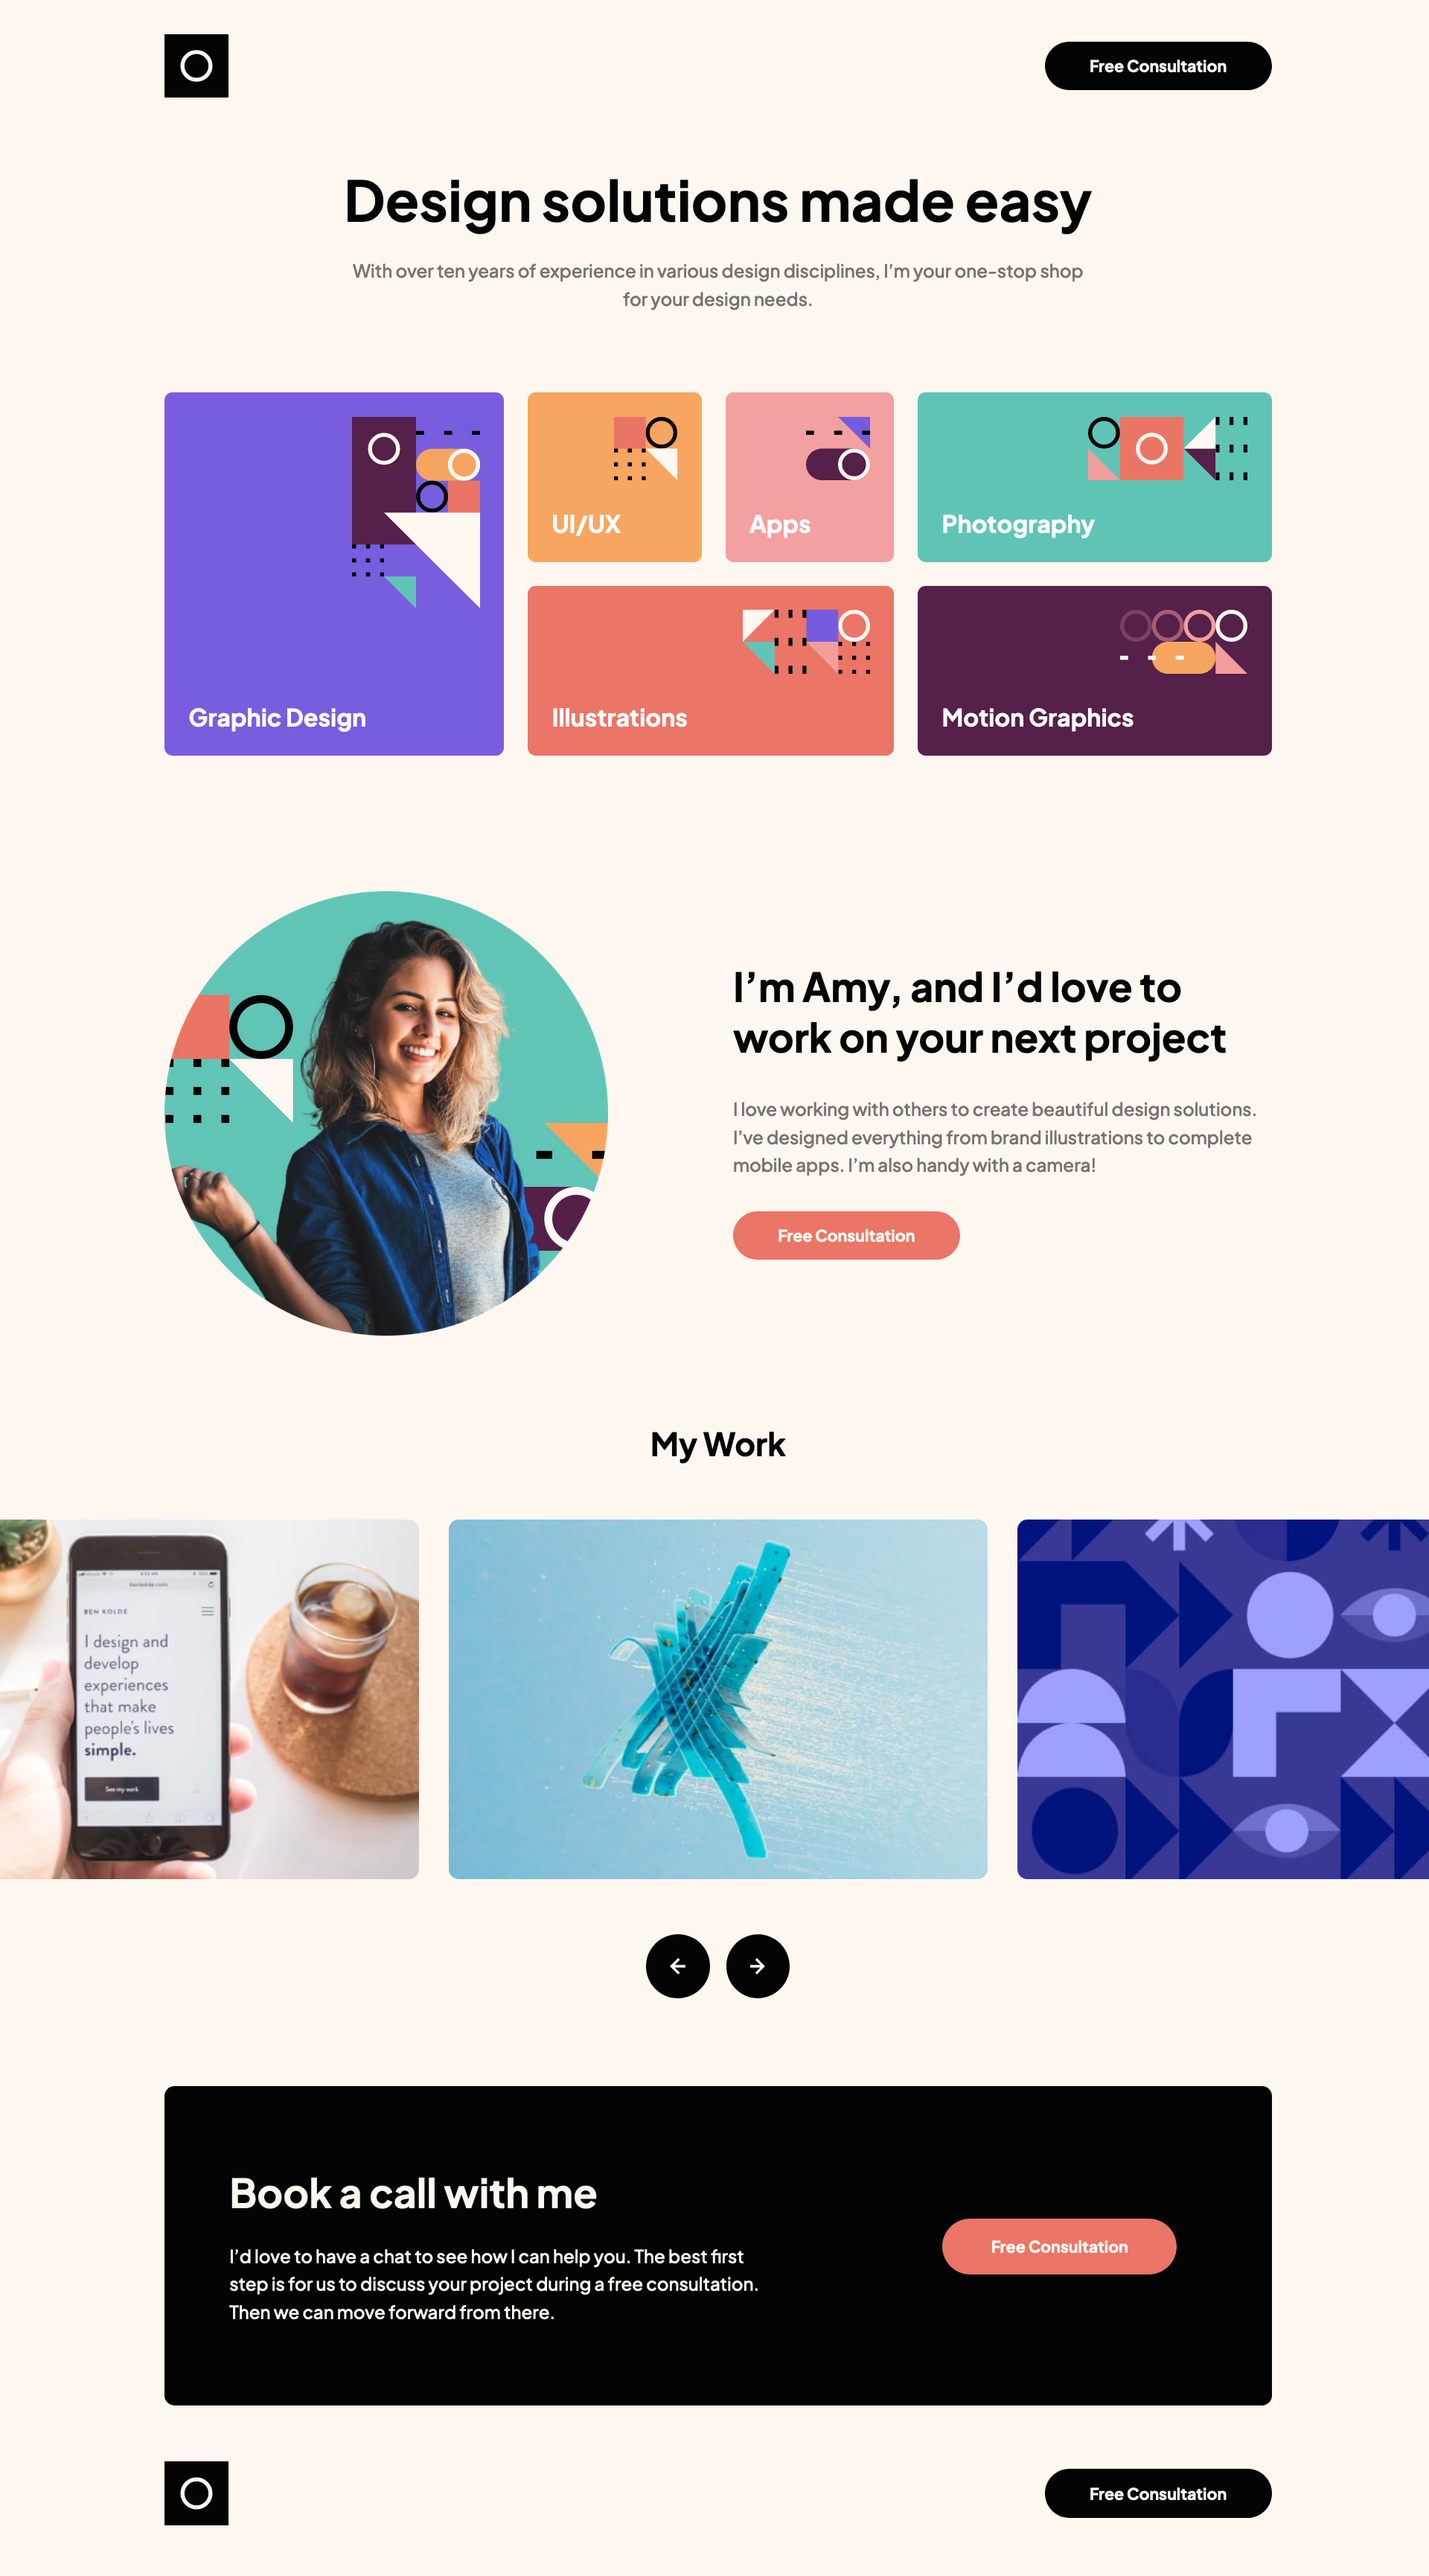
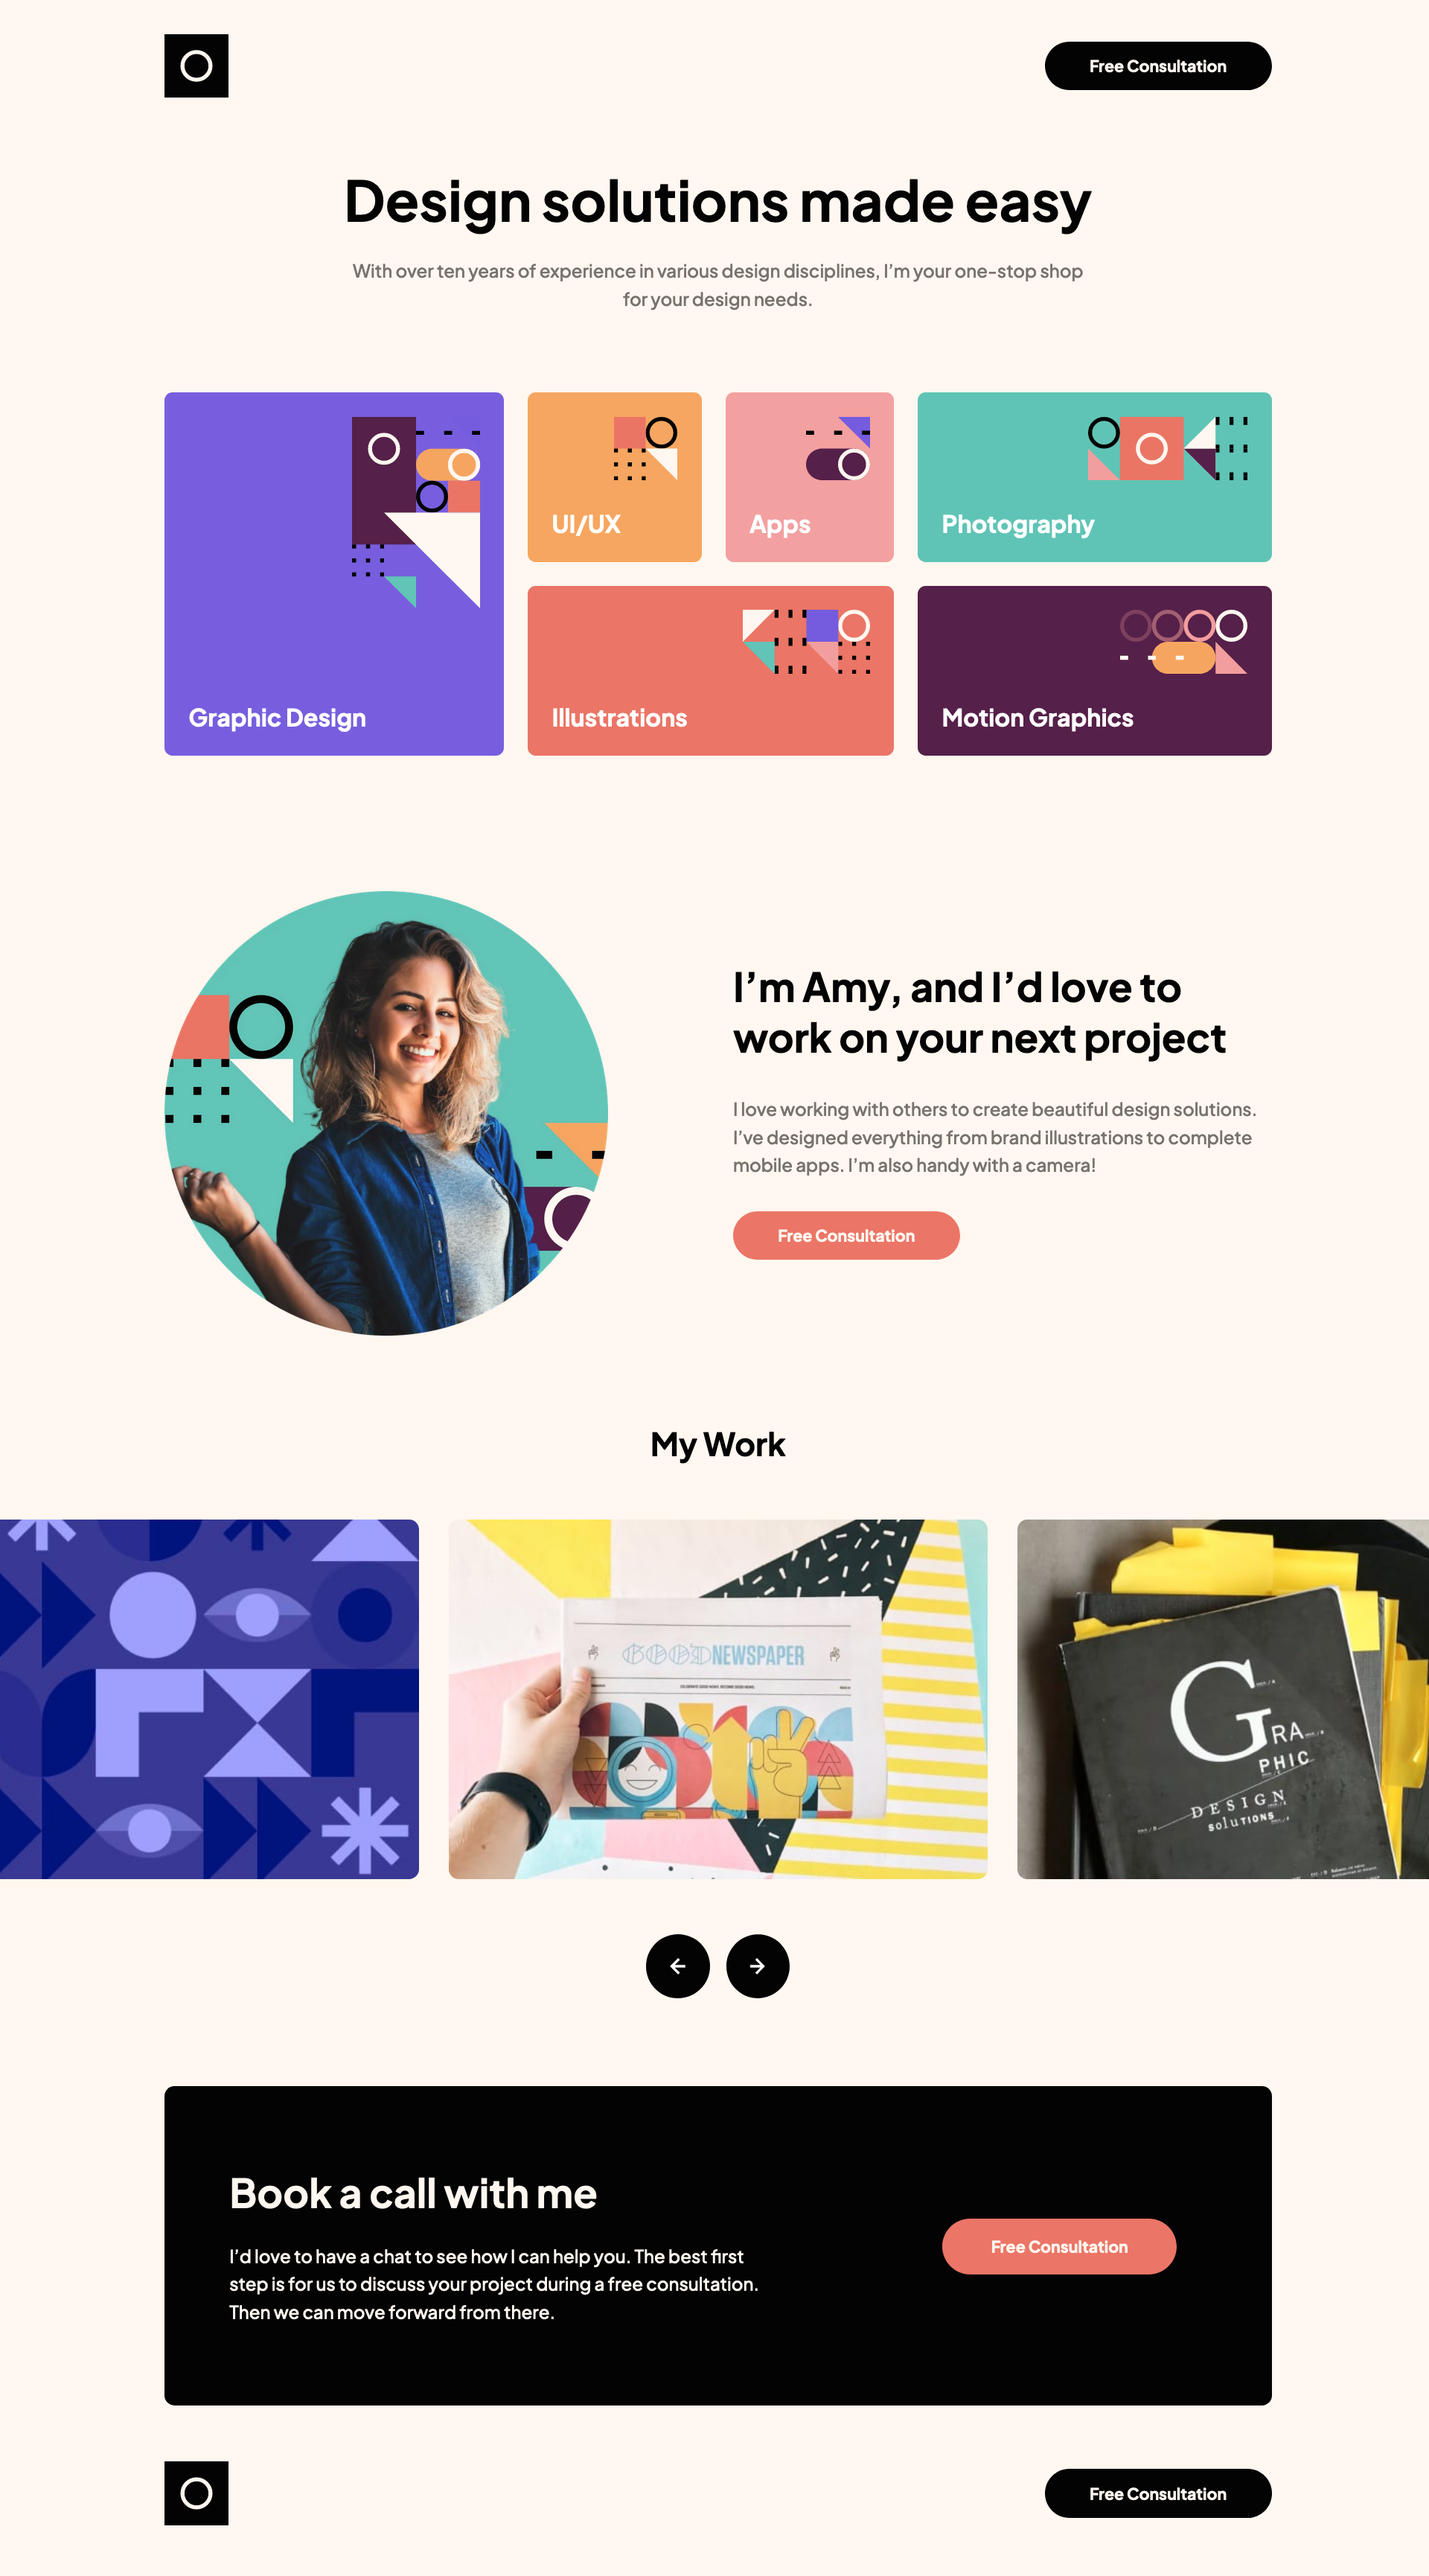
changed <p> to <h2> portfolio section

Changed region(s): [[0.0, 0.5618, 1.0, 0.7491]]

diff --git a/index.html b/index.html
@@ -31,7 +31,7 @@
                width="128"
                height="192"
             >
-            <p class="portfolio__desc">Graphic Design</p>
+            <h2 class="portfolio__desc">Graphic Design</h2>
          </div>
          <div class="portfolio__uiux portfolio__wrapper flex">
             <img
@@ -41,7 +41,7 @@
                width="64"
                height="64"
             >
-            <p class="portfolio__desc">UI/UX</p>
+            <h2 class="portfolio__desc">UI/UX</h2>
          </div>
          <div class="portfolio__apps portfolio__wrapper flex">
             <img
@@ -51,7 +51,7 @@
                width="64"
                height="64"
             >
-            <p class="portfolio__desc">Apps</p>
+            <h2 class="portfolio__desc">Apps</h2>
          </div>
          <div class="portfolio__photo portfolio__wrapper flex">
             <img
@@ -61,7 +61,7 @@
                width="160"
                height="64"
             >
-            <p class="portfolio__desc">Photography</p>
+            <h2 class="portfolio__desc">Photography</h2>
          </div>
          <div class="portfolio__illust portfolio__wrapper flex">
             <img
@@ -71,7 +71,7 @@
                width="128"
                height="64"
             >
-            <p class="portfolio__desc">Illustrations</p>
+            <h2 class="portfolio__desc">Illustrations</h2>
          </div>
          <div class="portfolio__motion portfolio__wrapper flex">
             <img
@@ -81,7 +81,7 @@
                width="128"
                height="64"
             >
-            <p class="portfolio__desc">Motion Graphics</p>
+            <h2 class="portfolio__desc">Motion Graphics</h2>
          </div>
       </section>
       <section class="hero wrapper flex">
@@ -105,11 +105,11 @@
          <h2 class="slide__title">My Work</h2>
          <div class="slide__carousel">
            <div class="slide__carousel__images flex">
-            <img src="./assets/image-slide-5.jpg" alt="slide">
-            <img src="./assets/image-slide-1.jpg" alt="slide">
             <img src="./assets/image-slide-2.jpg" alt="slide">
             <img src="./assets/image-slide-3.jpg" alt="slide">
             <img src="./assets/image-slide-4.jpg" alt="slide">
+            <img src="./assets/image-slide-5.jpg" alt="slide">
+            <img src="./assets/image-slide-1.jpg" alt="slide">
            </div>
          </div>
          <div class="slide__arrow flex">
